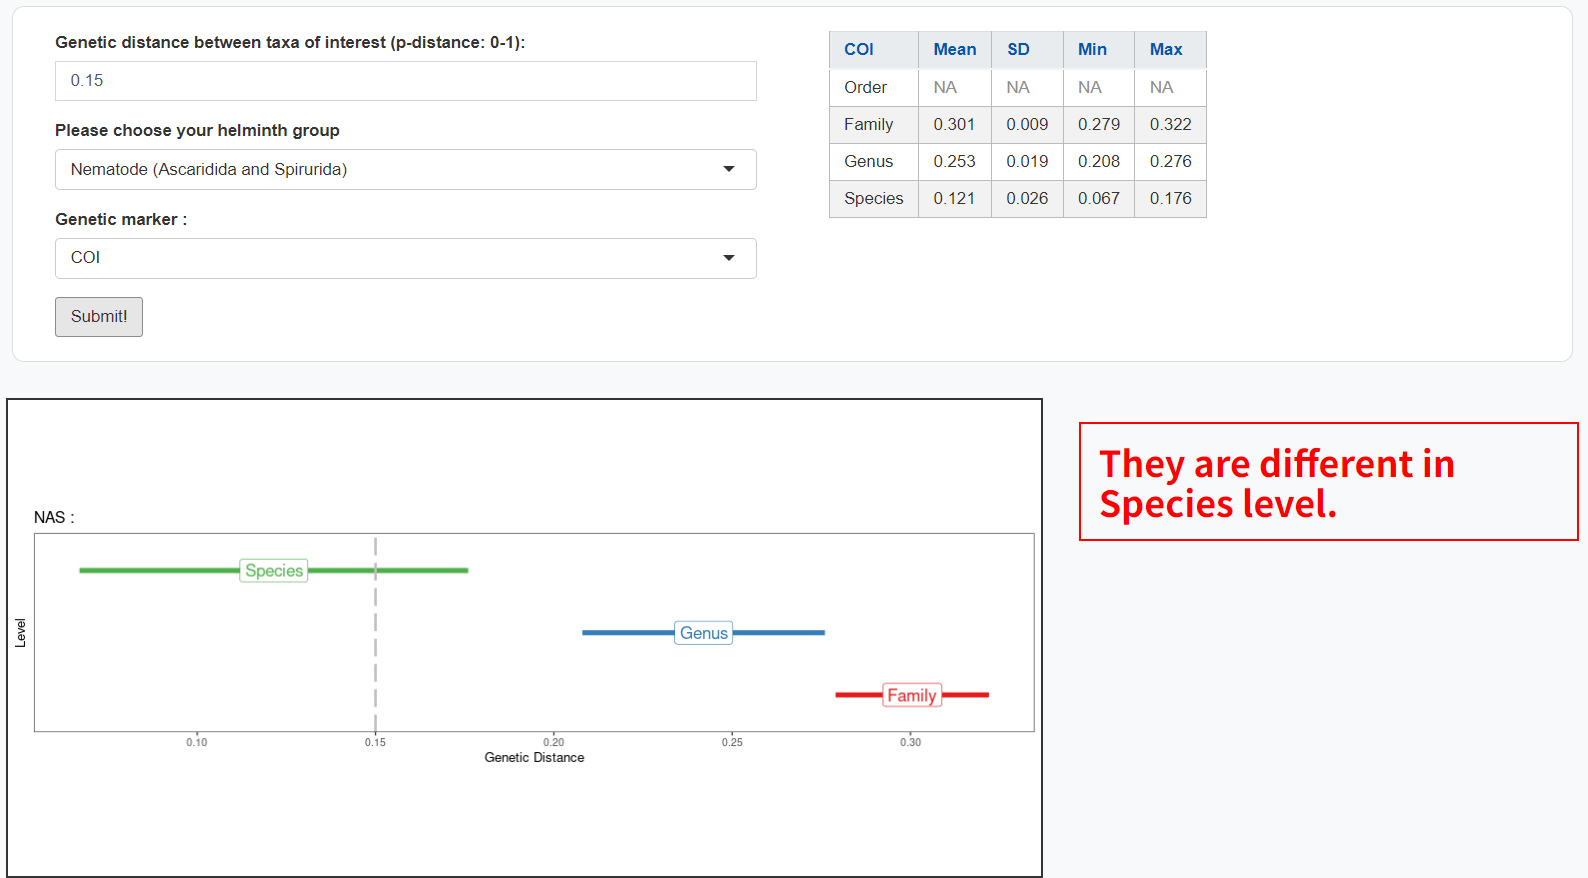
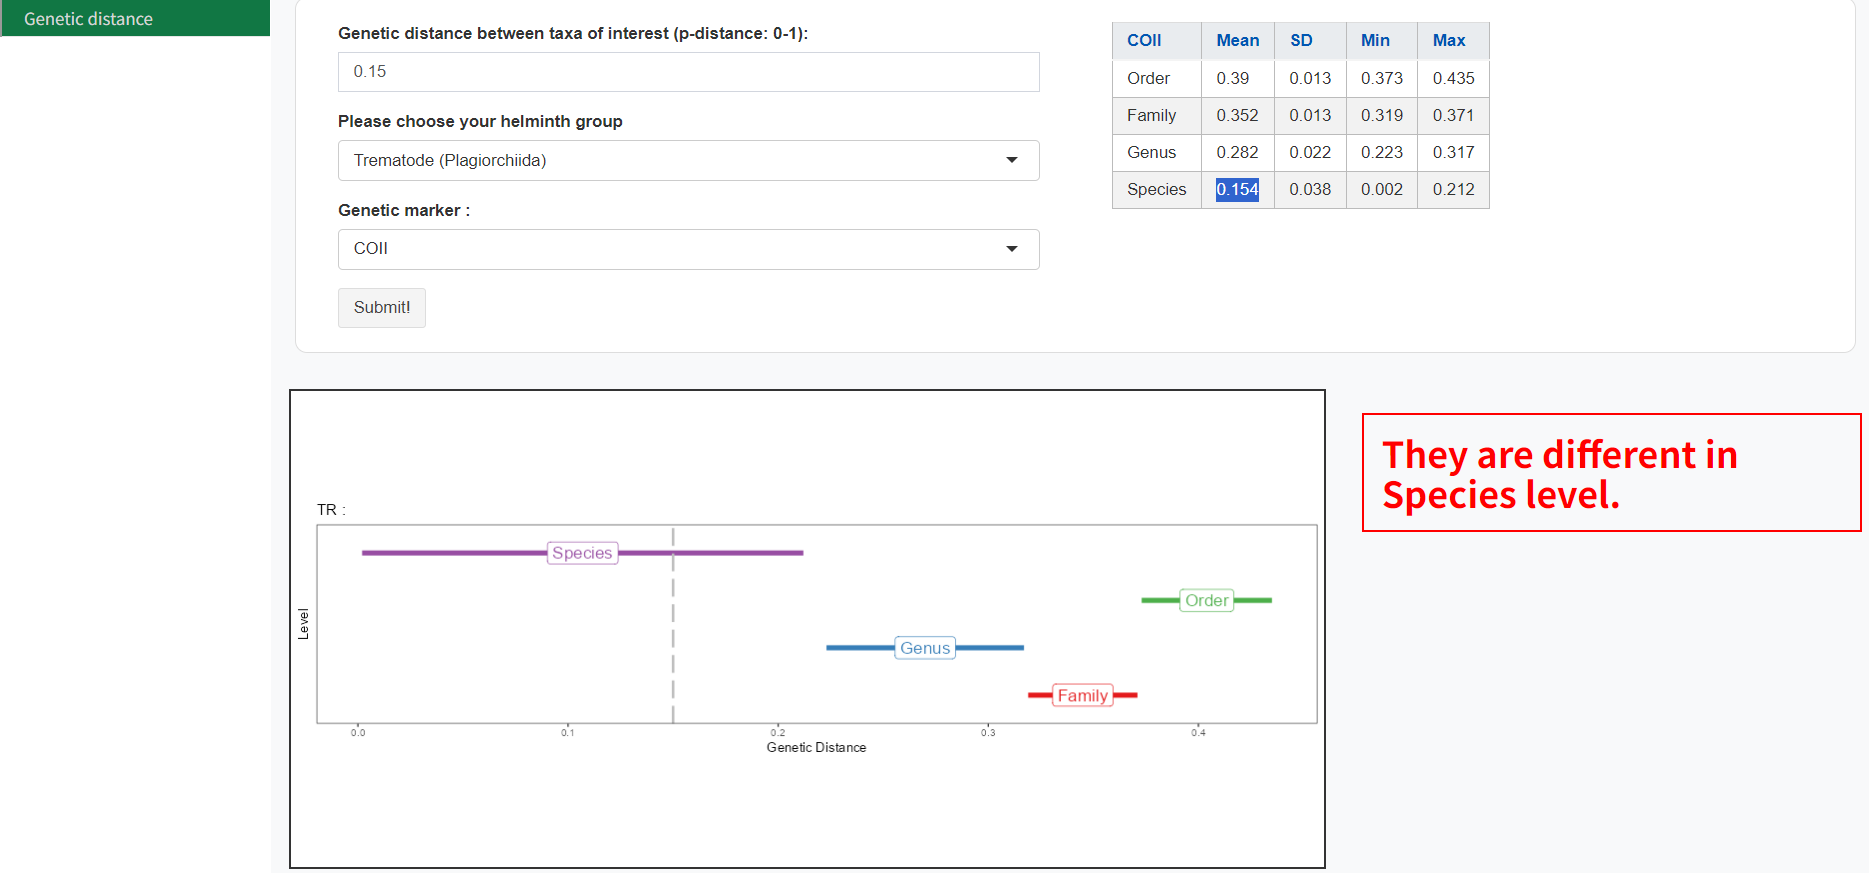
Ver. 0.4
- redesign web app
- fixed data
- update function

diff --git a/inst/ABI/www/text/Output visualization.md b/inst/ABI/www/text/Output visualization.md
@@ -1,22 +1,22 @@
 ####  Output visualization: 
 
-#### Example 1 (0.15 genetic distance, Nematode (Ascaridida and Spirurida), COI gene) 
+#### Example 1 (0.15 genetic distance, Trematode (Plagiorchiida), COII gene) 
 
 ![Ex1](ex1.png "Example 1")
 
 The queried genetic distance value is indicated by a grey dashed line against the range of genetic distances for each taxonomic hierarchy level.
 
 Interpretation of output
-The genetic distance of 0.15 falls within the interspecies level, indicating that the two trematode taxa are different species. The table also shows that the mean genetic distance at the species level is 0.146, and the genetic distance ranges from 0.087 to 0.177.
+The genetic distance of 0.15 falls within the interspecies level, indicating that the two trematode taxa are different species. The table also shows that the mean genetic distance at the species level is 0.154, and the genetic distance ranges from 0.002 to 0.212.
 
-#### Example 2 (0.18 genetic distance, Nematode (Ascaridida and Spirurida), COI gene) 
+#### Example 2 (0.215 genetic distance, Trematode (Plagiorchiida), COII gene) 
 
 ![Ex2](ex2.png "Example 2")
 
-The genetic distance of 0.18 falls between species and genus level. Based on the ABIapp, the COI gene result is inconclusive for the queried genetic distance. Another genetic marker is recommended for molecular analysis in this scenario to better interpret results.
+The genetic distance of 0.215 falls between species and genus level. Based on the ABIapp, the COII gene result is inconclusive for the queried genetic distance. Another genetic marker is recommended for molecular analysis in this scenario to better interpret results.
 
-#### Example 3 (0.05 genetic distance, Nematode (Ascaridida and Spirurida), COI gene) 
+#### Example 3 (0.001 genetic distance, Trematode (Plagiorchiida), COII gene) 
 
 ![Ex3](ex3.png "Example 3")
 
-The genetic distance of 0.05 falls below the minimum distance at interspecies level, indicating the possibility of cryptic species, subspecies, or population level.
+The genetic distance of 0.001 falls below the minimum distance at interspecies level, indicating the possibility of cryptic species, subspecies, or population level.

diff --git a/LICENSE.md b/LICENSE.md
@@ -1,21 +1,17 @@
-# MIT License
+# GNU GENERAL PUBLIC LICENSE
+Version 3, 29 June 2007
 
-Copyright (c) 2021 Abby authors
+Copyright (c) 2024 ABIApp authors
 
-Permission is hereby granted, free of charge, to any person obtaining a copy
-of this software and associated documentation files (the "Software"), to deal
-in the Software without restriction, including without limitation the rights
-to use, copy, modify, merge, publish, distribute, sublicense, and/or sell
-copies of the Software, and to permit persons to whom the Software is
-furnished to do so, subject to the following conditions:
+This program is free software: you can redistribute it and/or modify
+it under the terms of the GNU General Public License as published by
+the Free Software Foundation, either version 3 of the License, or
+(at your option) any later version.
 
-The above copyright notice and this permission notice shall be included in all
-copies or substantial portions of the Software.
+This program is distributed in the hope that it will be useful,
+but WITHOUT ANY WARRANTY; without even the implied warranty of
+MERCHANTABILITY or FITNESS FOR A PARTICULAR PURPOSE. See the
+GNU General Public License for more details.
 
-THE SOFTWARE IS PROVIDED "AS IS", WITHOUT WARRANTY OF ANY KIND, EXPRESS OR
-IMPLIED, INCLUDING BUT NOT LIMITED TO THE WARRANTIES OF MERCHANTABILITY,
-FITNESS FOR A PARTICULAR PURPOSE AND NONINFRINGEMENT. IN NO EVENT SHALL THE
-AUTHORS OR COPYRIGHT HOLDERS BE LIABLE FOR ANY CLAIM, DAMAGES OR OTHER
-LIABILITY, WHETHER IN AN ACTION OF CONTRACT, TORT OR OTHERWISE, ARISING FROM,
-OUT OF OR IN CONNECTION WITH THE SOFTWARE OR THE USE OR OTHER DEALINGS IN THE
-SOFTWARE.
+You should have received a copy of the GNU General Public License
+along with this program. If not, see <https://www.gnu.org/licenses/>.

diff --git a/Readme.md b/Readme.md
@@ -1,11 +1,22 @@
 ![image](https://img.shields.io/badge/Code-R-blue)
 ![image](https://img.shields.io/badge/Package-R-blue)
-![image](https://img.shields.io/badge/ABI-V%200.4-blue)
+![image](https://img.shields.io/badge/ABI-V%200.3-blue)
+
+## Pre-Install Package
+this package requires "ggtree" (https://bioconductor.org/packages/release/bioc/html/ggtree.html) on the web app \
+you must install ggtree package before install ABI packages
+```{r}
+if (!require("BiocManager", quietly = TRUE))
+    install.packages("BiocManager")
+
+BiocManager::install("ggtree")
+```
+
 ## Install Package
 
 ```{r}
 install.packages("devtools")
-devtools::install_github("slphyx/ABI")
+devtools::install_github("slphyx/ABIApp")
 ```
 
 or
@@ -13,7 +24,7 @@ or
 ```{r}
 install.packages("devtools")
 library(devtools)
-install_github("slphyx/ABI")
+install_github("slphyx/ABIApp")
 ```
 
 
